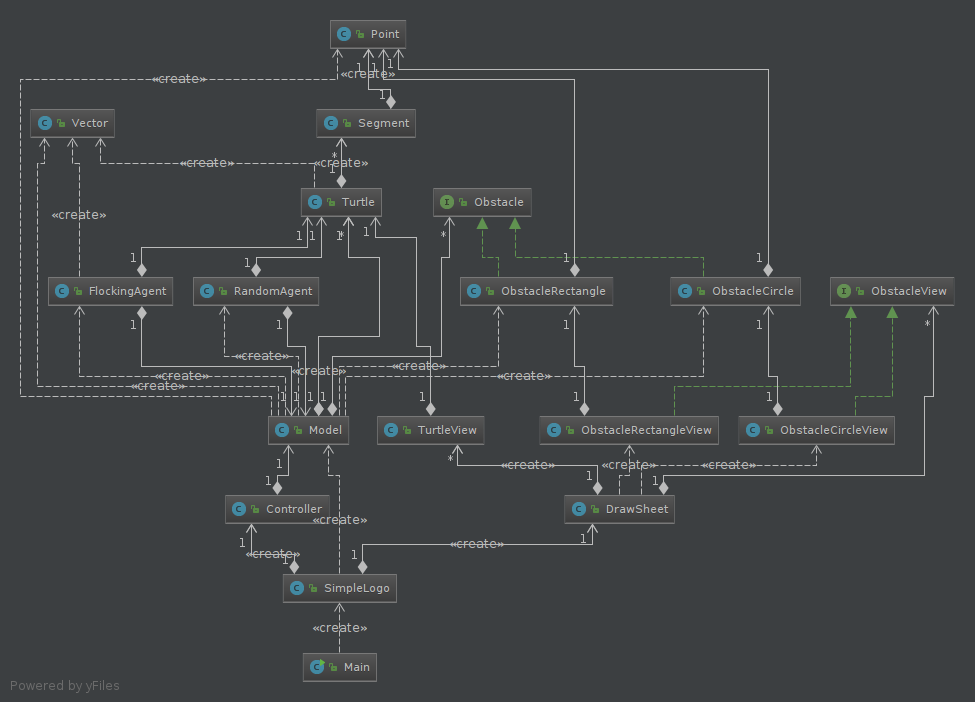
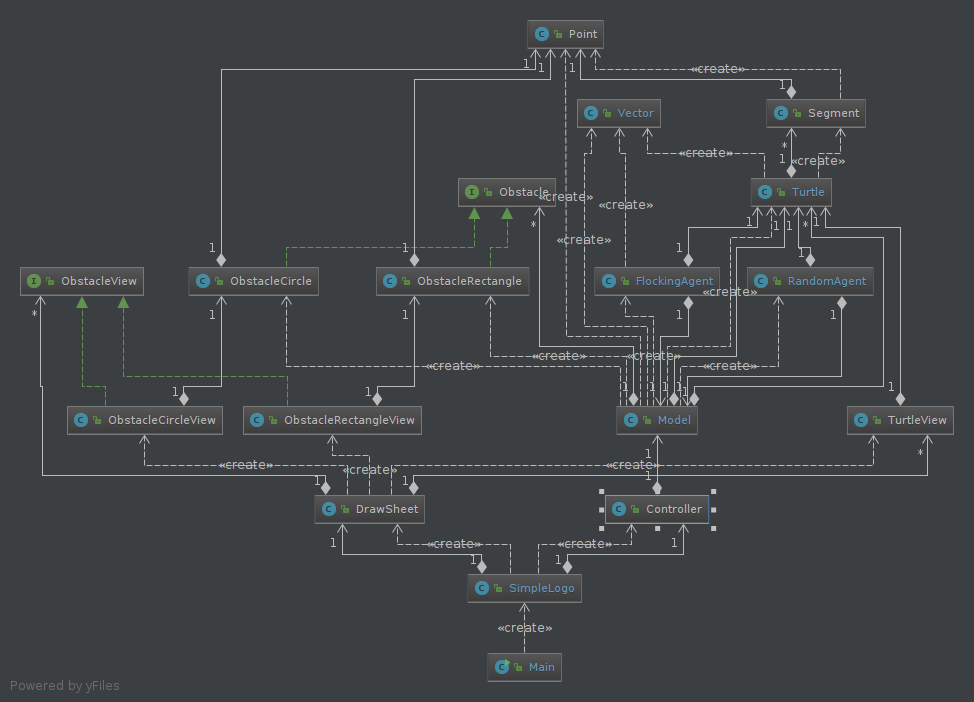
make model.Model singleton and update report.

diff --git a/src/main/java/model/Model.java b/src/main/java/model/Model.java
@@ -6,46 +6,18 @@ import java.util.concurrent.CopyOnWriteArrayList;
 /**
  * Created by hagoterio on 26/04/17.
  */
+/*This class is a singleton*/
 public class Model  extends Observable {
-    private final int INITIAL_NB_TURTLE = 100;
+    private final static Model INSTANCE = new Model();
 
-    private static int mode;
-    private static int height,width;
-
+    private int mode;
+    private int height,width;
     private Turtle currentTurtle;
     private CopyOnWriteArrayList<Turtle> turtles;
     private int color;
     private ArrayList<Obstacle> obstacles;
 
-    public Model(int width, int height, int mode) {
-        this.turtles = new CopyOnWriteArrayList<>();
-        this.obstacles = new ArrayList<>();
-        this.color = 0;
-        Model.width = width;
-        Model.height = height;
-        Model.mode = mode;
-
-        if(mode != 1){
-            /*add obstacles*/
-            this.addObstacleRectangle(new Point(10, 50), 60, 40);
-            this.addObstacleCircle(new Point(200, 100), 70);
-            this.addObstacleRectangle(new Point(500, 10), 80, 70);
-            this.addObstacleCircle(new Point(200, 300), 40);
-            this.addObstacleRectangle(new Point(600, 300), 70, 40);
-
-            /* add diferent color turtles*/
-            this.setColor(8);
-            this.addTurtles(INITIAL_NB_TURTLE/4);
-            this.setColor(1);
-            this.addTurtles(INITIAL_NB_TURTLE/4);
-            this.setColor(4);
-            this.addTurtles(INITIAL_NB_TURTLE/4);
-            this.setColor(5);
-            this.addTurtles(INITIAL_NB_TURTLE/4);
-        } else {
-            this.addTurtle();
-        }
-    }
+    private Model(){}
 
     public ArrayList<Obstacle> getObstacles() {
         return obstacles;
@@ -70,9 +42,9 @@ public class Model  extends Observable {
     public synchronized void addTurtle(){
         Turtle turtle = new Turtle( width/2,height/2);
         if(mode == 2){
-            new Thread(new RandomAgent(this, turtle)).start();
+            new Thread(new RandomAgent(turtle)).start();
         } else if(mode == 3) {
-            new Thread(new FlockingAgent(this, turtle)).start();
+            new Thread(new FlockingAgent(turtle)).start();
         }
         this.turtles.add(turtle);
         this.currentTurtle = turtle;
@@ -177,11 +149,11 @@ public class Model  extends Observable {
         }
     }
 
-    public static int getHeight() {
+    public int getHeight() {
         return height;
     }
 
-    public static int getWidth() {
+    public int getWidth() {
         return width;
     }
 
@@ -236,7 +208,41 @@ public class Model  extends Observable {
         this.notifyView(null);
     }
 
-    public static int getMode() {
+    public int getMode() {
         return mode;
+    }
+
+    public static void Initialize(int width, int height, int mode, int nbTurtles) {
+        getInstance().turtles = new CopyOnWriteArrayList<>();
+        getInstance().obstacles = new ArrayList<>();
+        getInstance().color = 0;
+        getInstance().width = width;
+        getInstance().height = height;
+        getInstance().mode = mode;
+
+        if(mode != 1){
+            /*add obstacles*/
+            getInstance().addObstacleRectangle(new Point(10, 50), 60, 40);
+            getInstance().addObstacleCircle(new Point(200, 100), 70);
+            getInstance().addObstacleRectangle(new Point(500, 10), 80, 70);
+            getInstance().addObstacleCircle(new Point(200, 300), 40);
+            getInstance().addObstacleRectangle(new Point(600, 300), 70, 40);
+
+            /* add diferent color turtles*/
+            getInstance().setColor(8);
+            getInstance().addTurtles(nbTurtles/4);
+            getInstance().setColor(1);
+            getInstance().addTurtles(nbTurtles/4);
+            getInstance().setColor(4);
+            getInstance().addTurtles(nbTurtles/4);
+            getInstance().setColor(5);
+            getInstance().addTurtles(nbTurtles/4);
+        } else {
+            getInstance().addTurtle();
+        }
+    }
+
+    public static Model getInstance() {
+        return INSTANCE;
     }
 }

diff --git a/src/main/java/view/SimpleLogo.java b/src/main/java/view/SimpleLogo.java
@@ -11,10 +11,11 @@ import java.awt.event.*;
  * Created by theo on 12/04/17.
  */
 public class SimpleLogo extends JFrame implements ActionListener {
-    public static final Dimension VGAP = new Dimension(1,5);
-    public static final Dimension HGAP = new Dimension(5,1);
-    public final int width = 1024;
-    public final int height = 600;
+    private static final Dimension VGAP = new Dimension(1,5);
+    private static final Dimension HGAP = new Dimension(5,1);
+    private final int width = 1024;
+    private final int height = 600;
+    private final int nbTurtles = 100;
 
     private DrawSheet sheet;
     private JTextField inputValue;
@@ -179,7 +180,8 @@ public class SimpleLogo extends JFrame implements ActionListener {
 
         // Creation du model
         Dimension size = sheet.getSize();
-        Model model = new Model(width,height,mode);
+        Model model = Model.getInstance();
+        Model.Initialize(width,height,mode,nbTurtles);
         model.addObserver(this.sheet);
         this.sheet.update(model, model.getObstacles());
         this.sheet.update(model, model.getTurtles());

diff --git a/src/main/java/model/Vector.java b/src/main/java/model/Vector.java
@@ -24,8 +24,8 @@ public class Vector {
         double minDist = Double.MAX_VALUE;
         double currentAngle = 0;
 
-        int width = Model.getWidth();
-        int height = Model.getHeight();
+        int width = Model.getInstance().getWidth();
+        int height = Model.getInstance().getHeight();
         //for the toroidal environment
         //we search the best way to go to another point
         values = getAll(x1,y1,x2,y2);
@@ -66,7 +66,7 @@ public class Vector {
     }
 
     public double getX(double x){
-        int width = Model.getWidth();
+        int width = Model.getInstance().getWidth();
         double newX = getXWithoutDimension(x)%width;
         if(newX < 0){
             newX += width;
@@ -76,7 +76,7 @@ public class Vector {
     }
 
     public double getY(double y){
-        int height = Model.getHeight();
+        int height = Model.getInstance().getHeight();
         double newY = getYWithoutDimension(y)%height;
         if(newY < 0){
             newY += height;

diff --git a/src/main/java/model/Turtle.java b/src/main/java/model/Turtle.java
@@ -41,7 +41,7 @@ public class Turtle{
         Random rand = new Random();
         x = 0;
         y = 0;
-        if(Model.getMode()==1){
+        if(Model.getInstance().getMode()==1){
             dir = 270;
             speed = 45;
             visible = true;
@@ -65,8 +65,8 @@ public class Turtle{
     }
 
     public void forwardRec(double dist){
-        int width = Model.getWidth();
-        int height = Model.getHeight();
+        int width = Model.getInstance().getWidth();
+        int height = Model.getInstance().getHeight();
         Vector v = new Vector(dist, dir);
         if(isVisible()) {
             int realX = (int)v.getXWithoutDimension(x);
@@ -109,7 +109,7 @@ public class Turtle{
             seg.setColor(color);
 
             segments.add(seg);
-            if(Model.getMode() != 1 && segments.size() > 15){
+            if(Model.getInstance().getMode() != 1 && segments.size() > 15){
                 segments.remove(0);
             }
             setPosition(newX, newY);

diff --git a/src/main/java/Main.java b/src/main/java/Main.java
@@ -1,3 +1,4 @@
+import model.Model;
 import view.SimpleLogo;
 
 import javax.swing.*;
@@ -8,12 +9,9 @@ import javax.swing.*;
 public class Main {
 
     public static void main(String[] args) {
-        SwingUtilities.invokeLater(new Runnable(){
-            public void run(){
-
-                SimpleLogo fenetre = new SimpleLogo();
-                fenetre.setVisible(true);
-            }
+        SwingUtilities.invokeLater(() -> {
+            SimpleLogo window = new SimpleLogo();
+            window.setVisible(true);
         });
     }
 }

diff --git a/src/main/java/model/FlockingAgent.java b/src/main/java/model/FlockingAgent.java
@@ -25,8 +25,8 @@ public class FlockingAgent implements Runnable {
     private Turtle turtle;
     private int[] dimension;
 
-    public FlockingAgent(Model model, Turtle turtle) {
-        this.model = model;
+    public FlockingAgent(Turtle turtle) {
+        this.model = Model.getInstance();
         this.turtle = turtle;
     }
 

diff --git a/src/main/java/model/RandomAgent.java b/src/main/java/model/RandomAgent.java
@@ -16,8 +16,8 @@ public class RandomAgent implements Runnable {
     private Model model;
     private Turtle turtle;
 
-    public RandomAgent(Model model, Turtle turtle) {
-        this.model = model;
+    public RandomAgent(Turtle turtle) {
+        this.model = Model.getInstance();
         this.turtle = turtle;
     }
 

diff --git a/RAPPORT.md b/RAPPORT.md
@@ -85,6 +85,8 @@ Avant de commencer voici un UML mis a jour de notre projet :
 
 ![final UML](images/diagramProject.png)
 
+La classe model.Model est singleton puisqu'elle ne doit être instancié qu'une seule fois.
+
 ### Inertie
 Nous avons ajouté de l'inertie aux tortues en ajoutant un vecteur correspondant à la vitesse
 et à la direction actuelle de la tortue aux vecteurs du flocking.
@@ -95,12 +97,19 @@ De le même manière que pour l'inertie nous avons ajouté un vecteur "objectif"
 Quand le souris est sur la fenêtre ce vecteur est orienté en direction du pointeur de la souris.
 Les tortues suivent donc la souris.
 Quand la souris sort de la fenêtre ce vecteur devient nul est les tortues reprennent une activité de flocking classique.
+Notre classe Vecteur prenant en comte l'environnement toroidale, le tortue arrive donc à trouver le plus court chemin pour arriver à l'objectif dans cet environnement particulier.
 
 ### Couleurs
 Nous avons fait en sorte que les tortues ne voient que les autres tortues de la même couleur.
 Cela permet de créer plusieurs groupes distincts de tortues.
 
 Au lancement nous créons donc des tortues de quatres couleurs différentes.
+
+## Affichage des traces
+Nous avons ajouté la possibilité d'afficher les traces laissés par les tortues (qui correspondent aux 15 derniers segments tracés par une tortue).
+Cela permet un affiche élégant du déplacement des tortues sans surcharger la fenêtre.
+Afin de faciliter cet affichage nous avons ajouté des boutons permettant de lever et de baisser toutes les tortues en même temps
+(Permettant d'activer ou de désactiver l'affichage des traces).
 
 ### Obstacles
 Nous avons ajoutés des obstacles aux tortues.
@@ -116,3 +125,6 @@ Nous avons alors ajoutés un champ de vision aux tortues.
 Pour déterminer si une tortue peut en voir sa voisine, nous créons un vecteur entre les deux tortues,
 et si l'angle entre le vecteur de la direction de la tortue et ce vecteur est inferieur à son angle de champ de vision,
 alors la tortue voit sa voisine.
+
+Ce champ de vision utilisant notre class Vecteur, il prend en considération l'environnement toroidal,
+ce qui leurs permet de na pas se perdrent quand elles arrivent aux bords.
